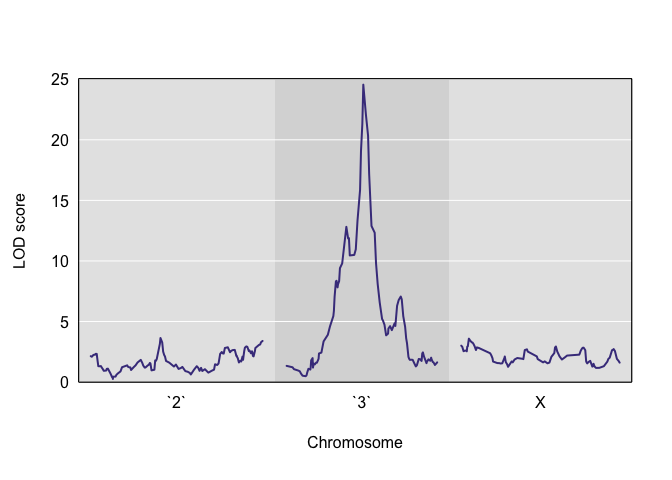
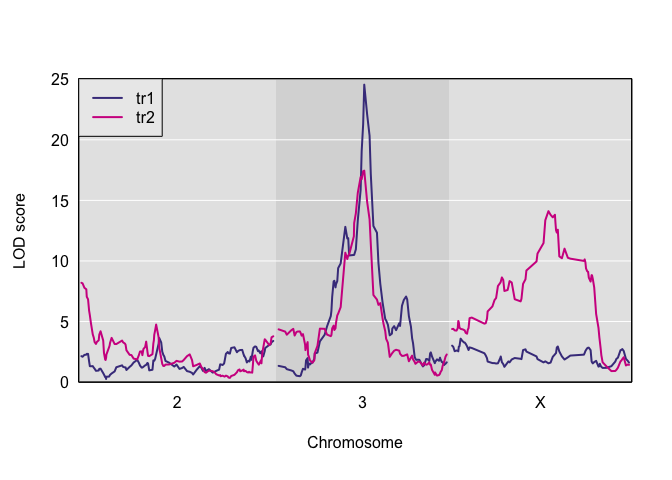
updated REadme

diff --git a/README.md b/README.md
@@ -14,18 +14,33 @@ public.](https://www.repostatus.org/badges/latest/wip.svg)](https://www.repostat
 
 ## Goals
 
-The goal of qtl2pleio is to perform a likelihood ratio test that
-distinguishes between competing hypotheses of presence of two separate
-QTL (alternative hypothesis) and pleiotropy (null hypothesis) in QTL
-studies in multiparental populations, such as the Diversity Outbred
-mouse population. `qtl2pleio` data structures are those used in the
-`rqtl/qtl2` package.
+The goal of qtl2pleio is, for a pair of traits that show evidence for a
+QTL in a common region, to distinguish between pleiotropy (the null
+hypothesis, that they are affected by a common QTL) and the alternative
+that they are affected by separate QTL. It extends the likelihood ratio
+test of [Jiang and Zeng
+(1995)](http://www.genetics.org/content/140/3/1111.long) for
+multiparental populations, such as Diversity Outbred mice, including the
+use of a linear mixed model to account for population structure.
+`qtl2pleio` data structures are those used in the
+[`rqtl/qtl2`](https://kbroman.org/qtl2) package.
 
 ## Installation
+
+To install qtl2pleio, use `install_github()` from the
+[devtools](https://devtools.r-lib.org) package.
 
 ``` r
 install.packages("devtools")
 devtools::install_github("fboehm/qtl2pleio")
+```
+
+You may also wish to install [R/qtl2](https://kbroman.org/qtl2) and the
+[`qtl2convert`](https://github.com/rqtl/qtl2convert) package. We will
+use both below.
+
+``` r
+install.packages(c("qtl2", "qtl2convert"), repos="http://rqtl.org/qtl2")
 ```
 
 ## Example
@@ -33,29 +48,21 @@ devtools::install_github("fboehm/qtl2pleio")
 Below, we walk through an example analysis with Diversity Outbred mouse
 data. We need a number of preliminary steps before we can perform our
 test of pleiotropy vs. separate QTL. Many procedures rely on the R
-package `qtl2`.
-
-``` r
-library(qtl2pleio)
-```
-
-We’ll work with data from the `qtl2data` repository, which is on github.
-First, we install and load the `qtl2` package.
-
-``` r
-devtools::install_github("rqtl/qtl2")
-```
-
-We use the above line once to install the package on our computer before
-loading the package with the `library` command.
+package `qtl2`. We first load the `qtl2`, `qtl2convert`, and `qtl2pleio`
+packages.
 
 ``` r
 library(qtl2)
+library(qtl2convert)
+library(qtl2pleio)
 ```
 
 ### Reading data from `qtl2data` repository on github
 
-We read from github.com data from the `qtl2data` repository.
+We’ll consider the
+[`DOex`](https://github.com/rqtl/qtl2data/tree/master/DOex) data in the
+[`qtl2data`](https://github.com/rqtl/qtl2data) repository. We’ll
+download the pre-calculated allele probabilities.
 
 ``` r
 tmpfile <- tempfile()
@@ -64,20 +71,19 @@ file <- paste0("https://raw.githubusercontent.com/rqtl/",
 download.file(file, tmpfile)
 pr <- readRDS(tmpfile)
 unlink(tmpfile)
+```
+
+And then we’ll download the physical marker map and convert it to a
+R/qtl2 map object.
+
+``` r
 tmpfile <- tempfile()
 file <- paste0("https://raw.githubusercontent.com/rqtl/",
                "qtl2data/master/DOex/DOex_pmap.csv")
 download.file(file, tmpfile)
 pmap_pre <- read.csv(tmpfile)
 unlink(tmpfile)
-pm2 <- pmap_pre[pmap_pre$chr == 2, 3]
-names(pm2) <- pmap_pre[pmap_pre$chr == 2, 1]
-pm3 <- pmap_pre[pmap_pre$chr == 3, 3]
-names(pm3) <- pmap_pre[pmap_pre$chr == 3, 1]
-pmX <- pmap_pre[pmap_pre$chr == "X", 3]
-names(pmX) <- pmap_pre[pmap_pre$chr == "X", 1]
-list(pm2, pm3, pmX) -> pm
-names(pm) <- c("`2`", "`3`", "X")
+pm <- qtl2convert::map_df_to_list(pmap_pre, pos_column="pos")
 ```
 
 We now have an allele probabilities object stored in `pr`.
@@ -101,7 +107,7 @@ chromosomes - let’s calculate a kinship matrix using
 probabilities from a full genome-wide set of markers.
 
 ``` r
-calc_kinship(probs = pr, type = "loco") -> kinship
+kinship <- calc_kinship(probs = pr, type = "loco")
 ```
 
 ``` r
@@ -206,33 +212,37 @@ Let’s perform univariate QTL mapping for each of the two traits in the Y
 matrix.
 
 ``` r
-scan1(genoprobs = pr, pheno = Y, kinship = kinship) -> s1
+s1 <- scan1(genoprobs = pr, pheno = Y, kinship = kinship)
 ```
+
+Here is a plot of the results.
 
 ``` r
 plot(s1, pm)
+plot(s1, pm, lod=2, col="violetred", add=TRUE)
+legend("topleft", colnames(s1), lwd=2, col=c("darkslateblue", "violetred"), bg="gray92")
 ```
 
 <img src="man/figures/README-unnamed-chunk-11-1.png" width="100%" />
 
+And here are the observed QTL peaks with LOD \> 8.
+
 ``` r
-find_peaks(s1, map = pm)
+find_peaks(s1, map = pm, threshold=8)
 #>   lodindex lodcolumn chr       pos       lod
-#> 1        1       tr1 `2` 75.562440  3.636498
-#> 2        1       tr1 `3` 82.778059 24.552172
-#> 3        1       tr1   X 13.406552  3.585519
-#> 4        2       tr2 `2`  3.164247  8.195879
-#> 5        2       tr2 `3` 82.778059 17.454825
-#> 6        2       tr2   X 95.069663 14.110670
+#> 1        1       tr1   3 82.778059 24.552172
+#> 2        2       tr2   2  3.164247  8.195879
+#> 3        2       tr2   3 82.778059 17.454825
+#> 4        2       tr2   X 95.069663 14.110670
 ```
 
 ### Perform two-dimensional scan as first step in pleiotropy v separate QTL hypothesis test
 
 ``` r
-out <- scan_pvl(probs = pp, 
-                pheno = Y, 
+out <- scan_pvl(probs = pp,
+                pheno = Y,
                 kinship = kinship[[2]], # 2nd entry in kinship list is Chr 3
-                start_snp = 38, 
+                start_snp = 38,
                 n_snp = 25, n_cores = 1
                 )
 #> starting covariance matrices estimation with data from 261 subjects.
@@ -251,8 +261,8 @@ library(dplyr)
 #> The following objects are masked from 'package:base':
 #> 
 #>     intersect, setdiff, setequal, union
-out %>% 
-  tidy_scan_pvl(pm3) %>% # pm3 is physical map for Chr 3
+out %>%
+  tidy_scan_pvl(pm[[2]]) %>% # pm[[2]] is physical map for Chr 3
   add_intercepts(intercepts_univariate = c(82.8, 82.8)) %>%
   plot_pvl(phenames = c("tr1", "tr2"))
 #> Warning: Removed 50 rows containing missing values (geom_path).
@@ -267,7 +277,7 @@ test statistic value for the specified traits and specified genomic
 region.
 
 ``` r
-(calc_lrt_tib(out) -> lrt)
+(lrt <- calc_lrt_tib(out))
 #> [1] 0.7730965
 ```
 
@@ -305,11 +315,11 @@ function `find_pleio_peak_tib`.
 ``` r
 set.seed(2018-11-25)
 system.time(b_out <- boot_pvl(probs = pp,
-         pheno = Y, 
-         pleio_peak_index = pleio_index, 
-         kinship = kinship[[2]], # 2nd element in kinship list is Chr 3 
-         nboot_per_job = 10, 
-         start_snp = 38, 
+         pheno = Y,
+         pleio_peak_index = pleio_index,
+         kinship = kinship[[2]], # 2nd element in kinship list is Chr 3
+         nboot_per_job = 10,
+         start_snp = 38,
          n_snp = 25
          ))
 #> starting covariance matrices estimation with data from 261 subjects.
@@ -333,7 +343,7 @@ system.time(b_out <- boot_pvl(probs = pp,
 #> starting covariance matrices estimation with data from 261 subjects.
 #> covariance matrices estimation completed.
 #>    user  system elapsed 
-#> 194.531   3.017 197.971
+#> 194.094   2.673 197.223
 ```
 
 The argument `nboot_per_job` indicates the number of bootstrap samples
